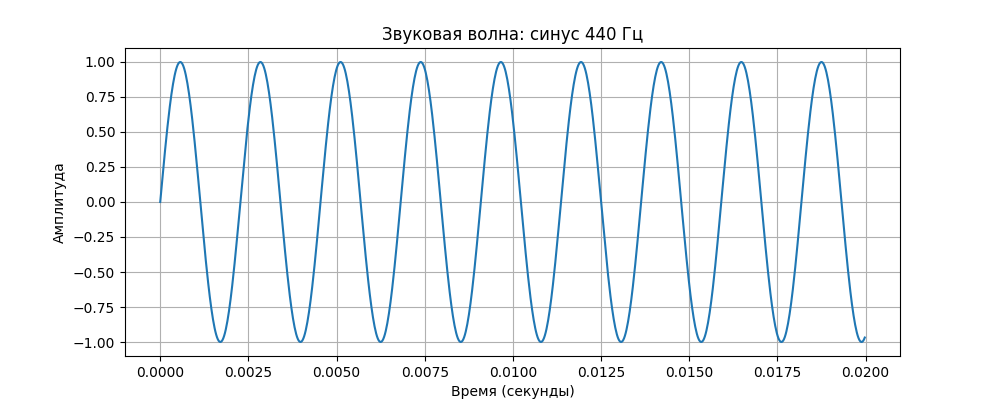
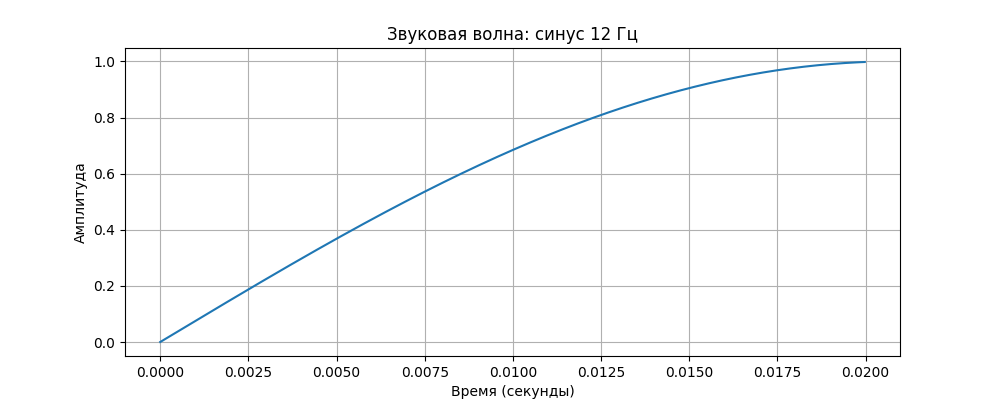
герцы вводятся вручную

diff --git a/project.py b/project.py
@@ -4,7 +4,8 @@ import matplotlib.pyplot as plt
 # 1. Создаем звук (синусоида 440 Гц на 1 секунду)
 sample_rate = 44100  # частота дискретизации
 t = np.linspace(0, 1, sample_rate)  # ось времени
-frequency = 440  # частота в Герцах (нота Ля)
+print('Введите частоту звука в Герцах')
+frequency = int(input())
 
 # Создаем синусоидальный сигнал
 sound = np.sin(2 * np.pi * frequency * t)
